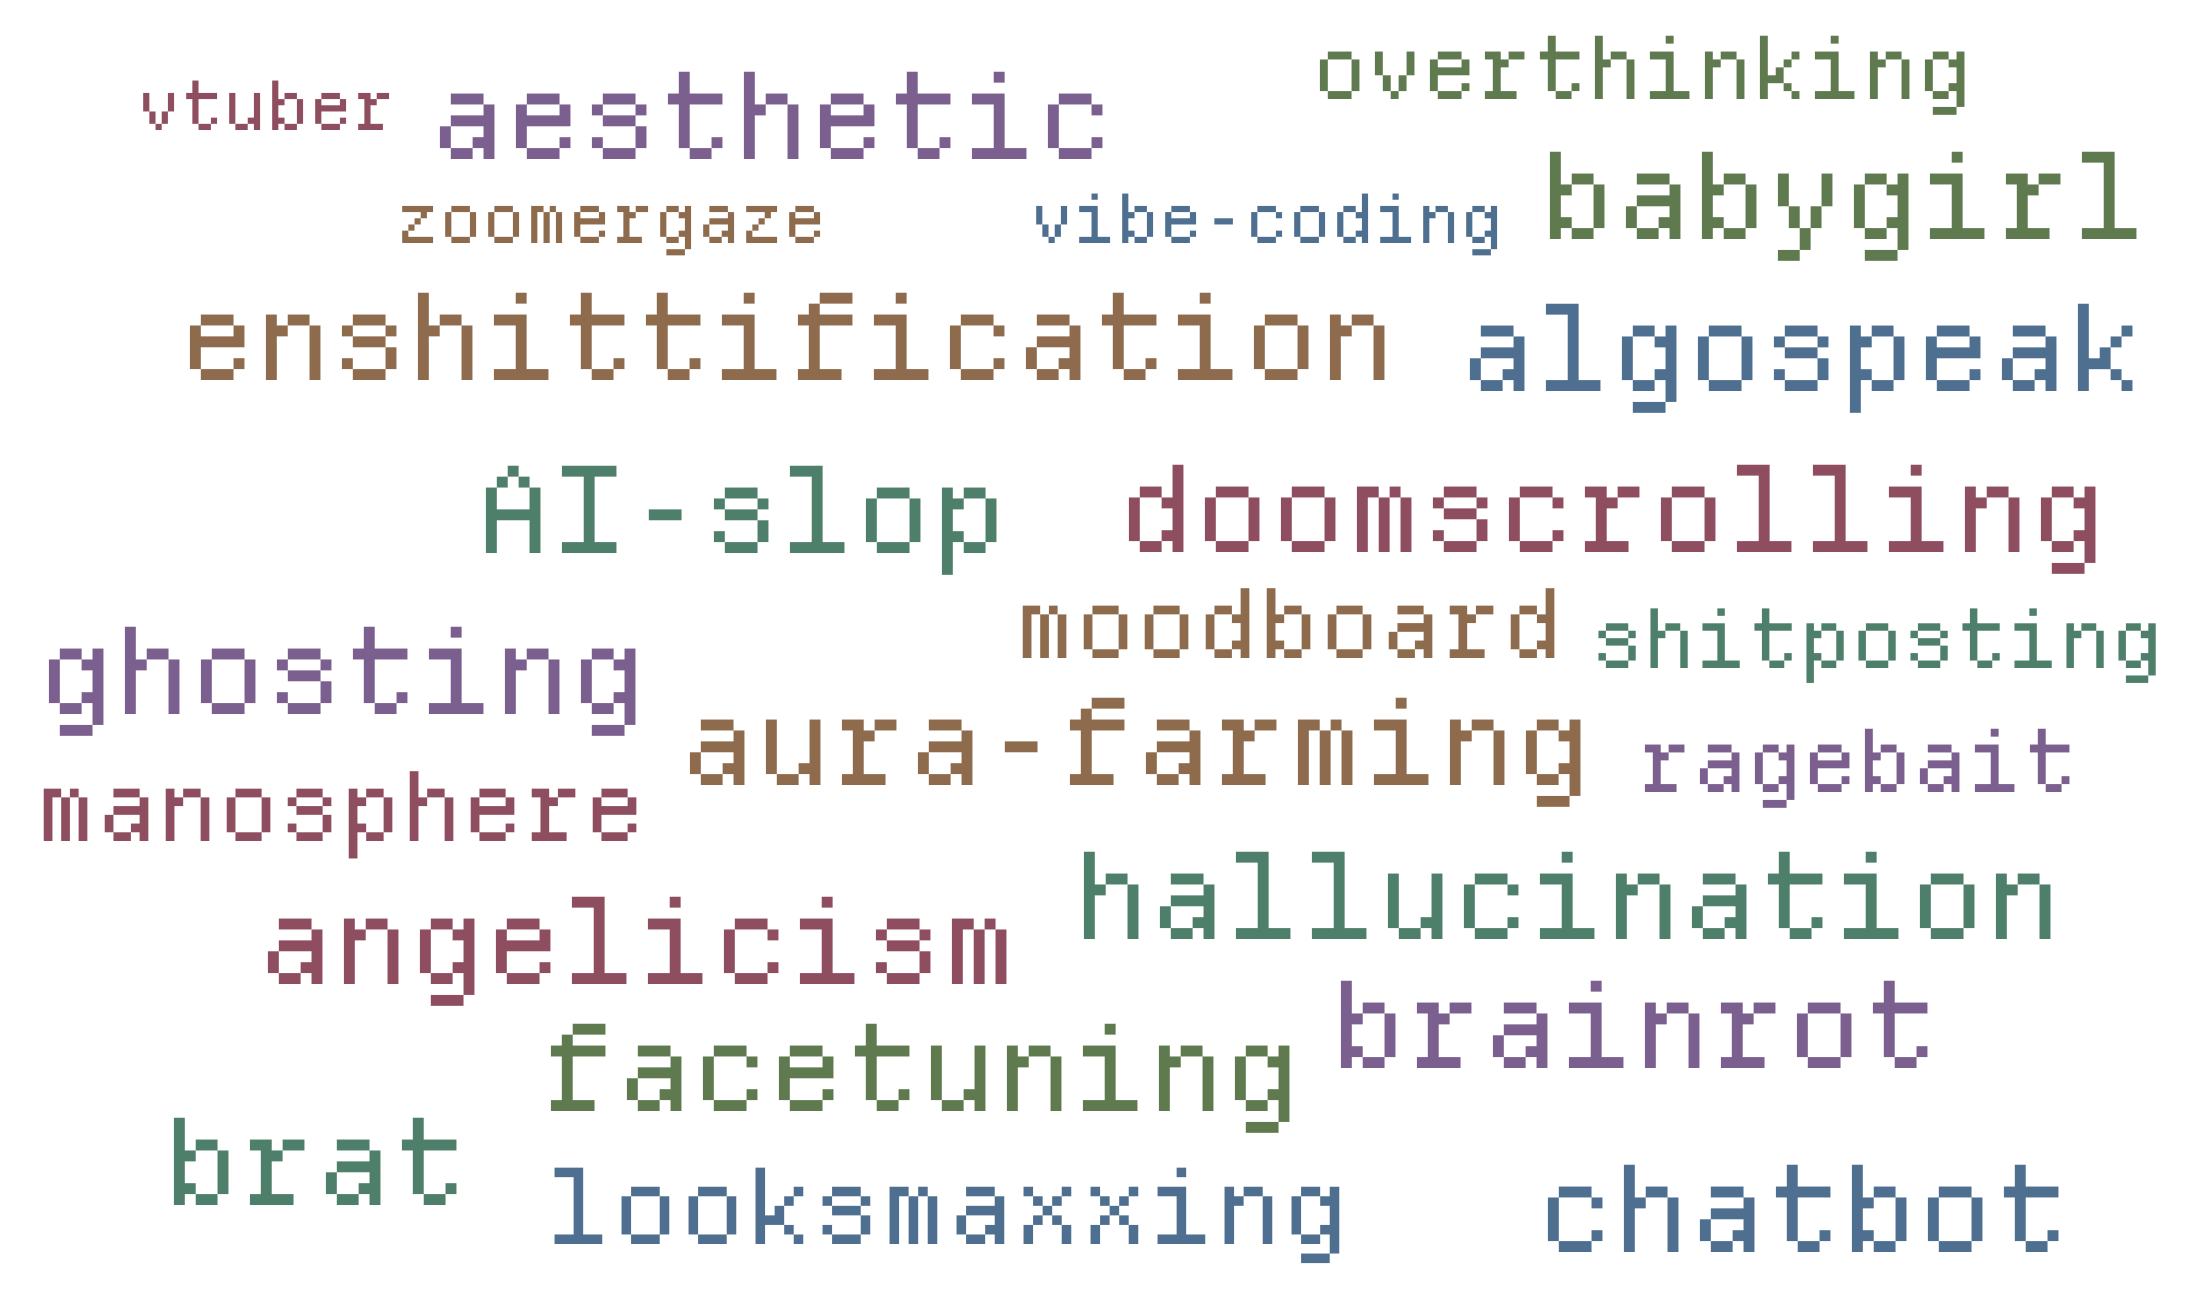
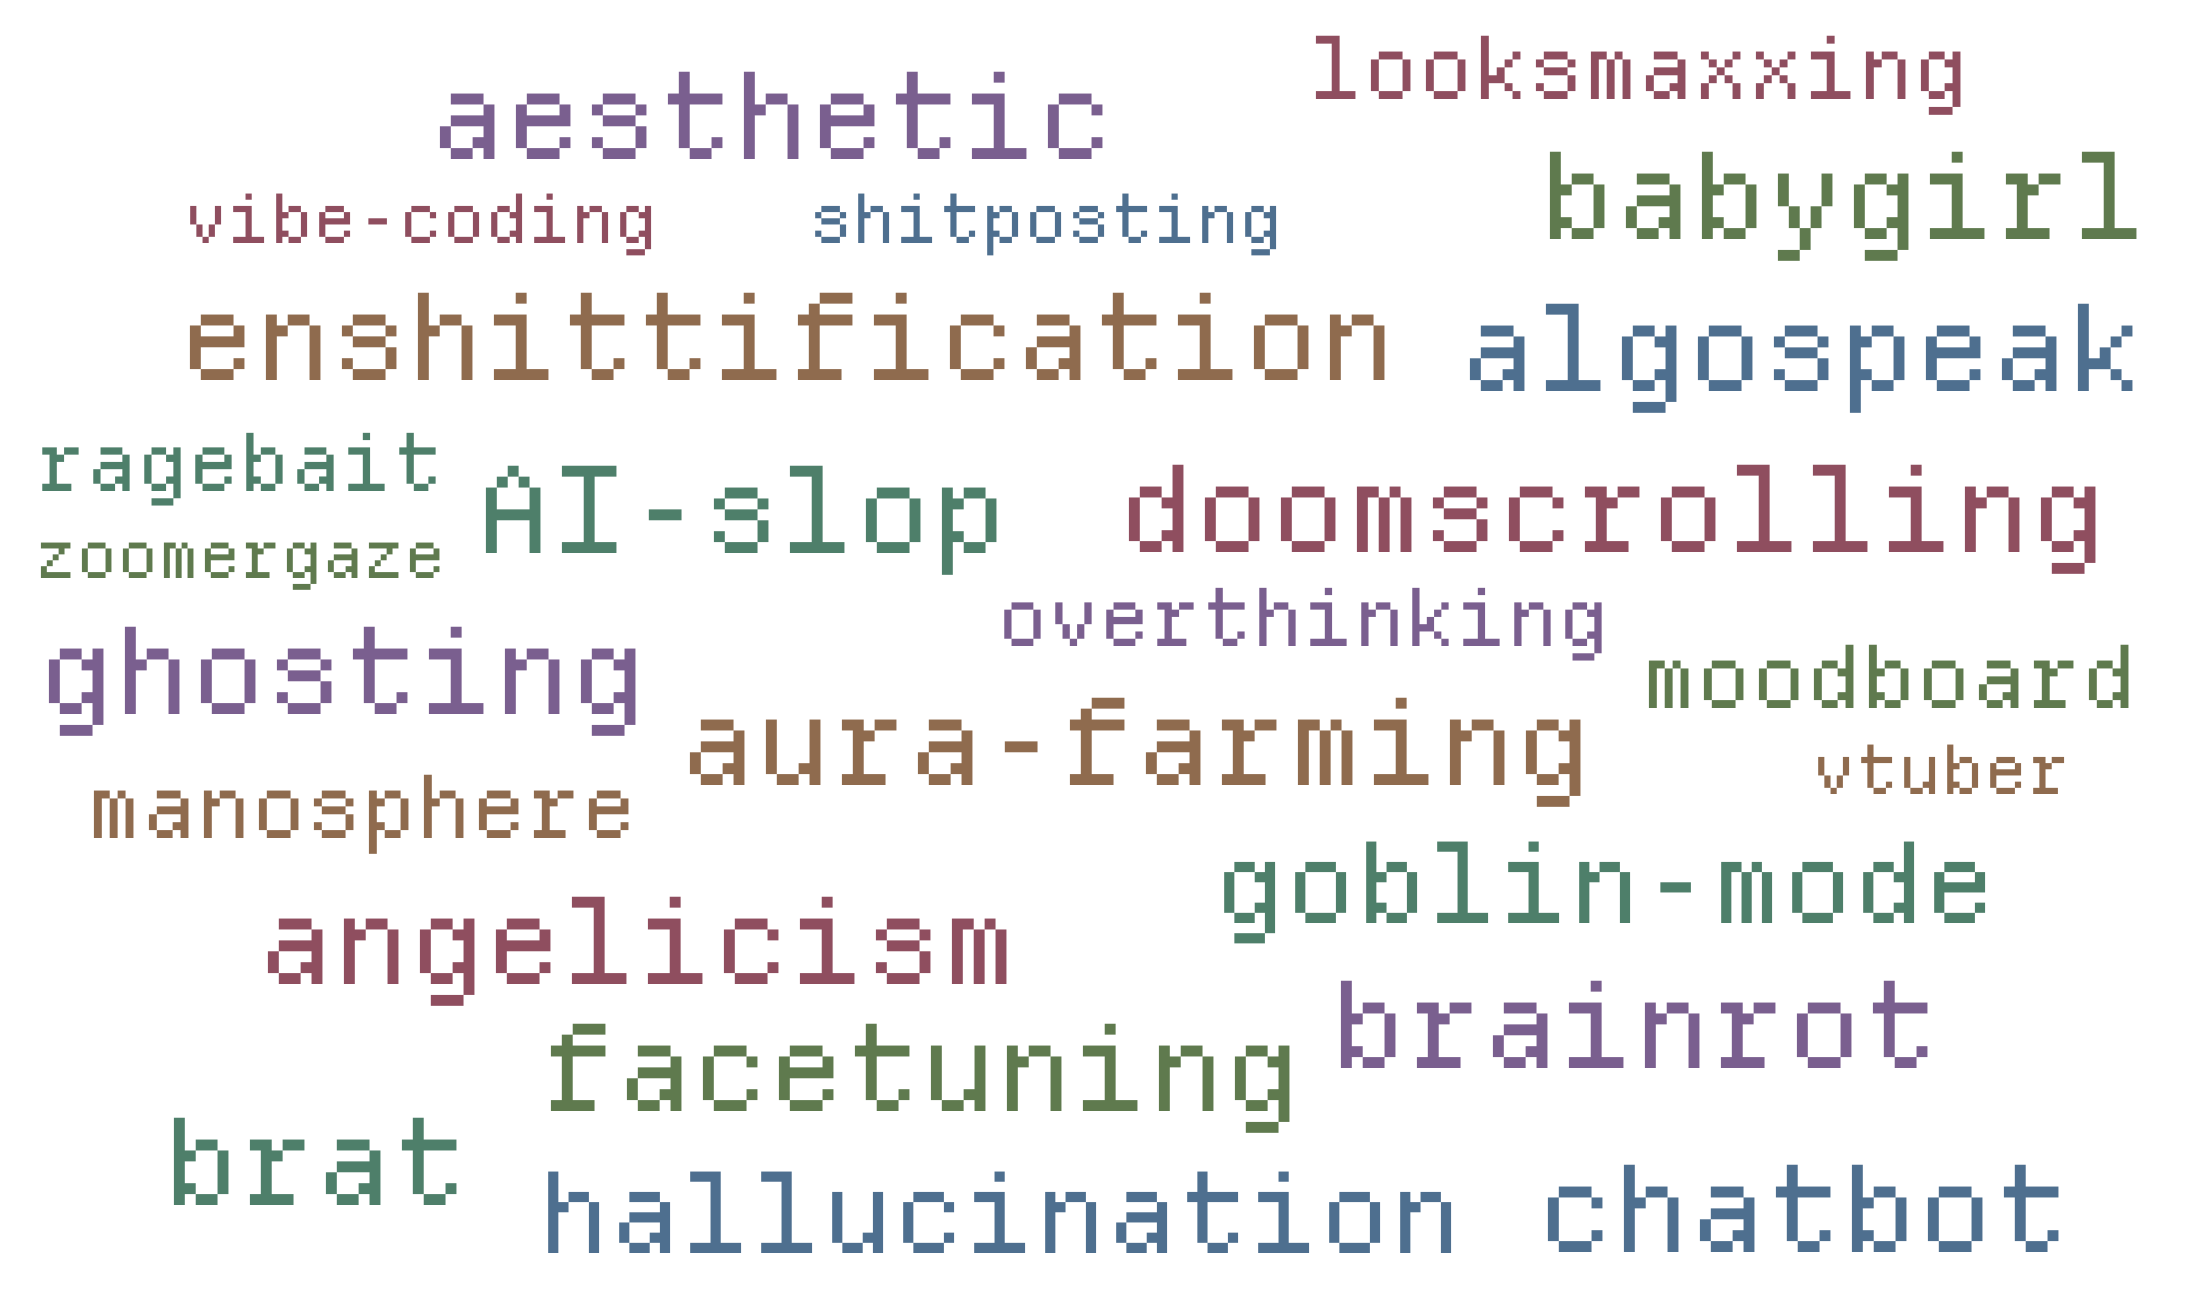
content: refresh the snapshot wordcloud and drop an unused image
Regenerate content/img/wordcloud.png alongside the edited term list in
snapshot.md; AGENTS.md notes those must move together or the page shows words
that are no longer in the list.

Remove content/img/freya-india-girls.jpg, which nothing references: the Freya
India entries in index.md and bibliography.md are text links.

Ignore content/video/*.mov. The site serves the tracked mp4 and webm
derivatives; the 10MB master is referenced nowhere and does not belong in git.

diff --git a/content/snapshot.md b/content/snapshot.md
@@ -18,6 +18,7 @@ date: 2 September 2026
 - enshittification
 - facetuning
 - ghosting
+- goblin-mode
 - hallucination
 - looksmaxxing
 - manosphere
